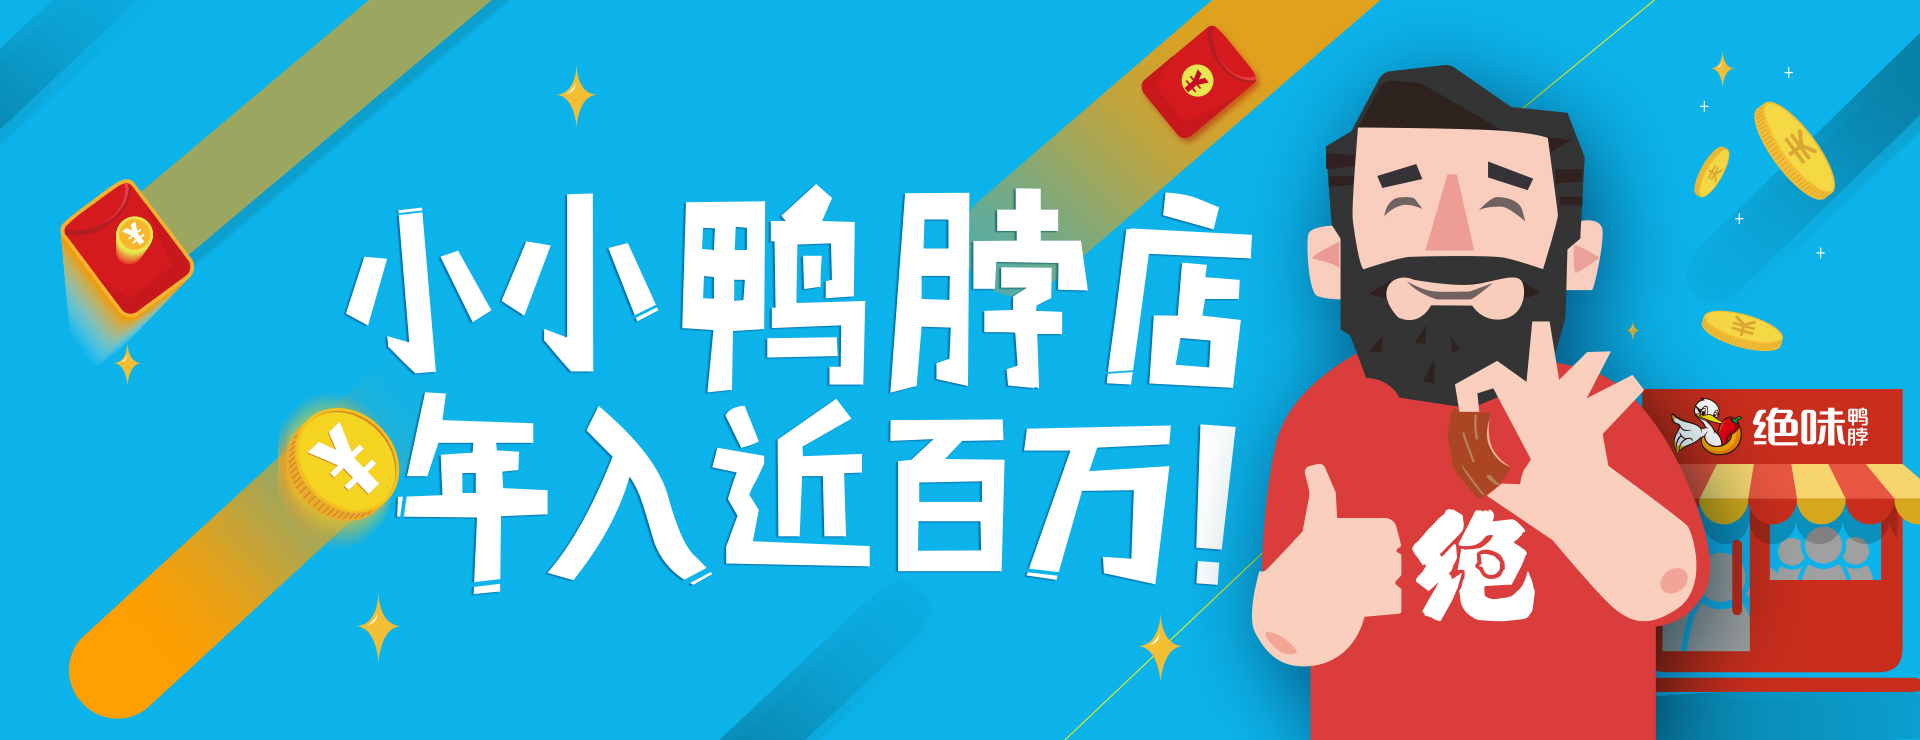
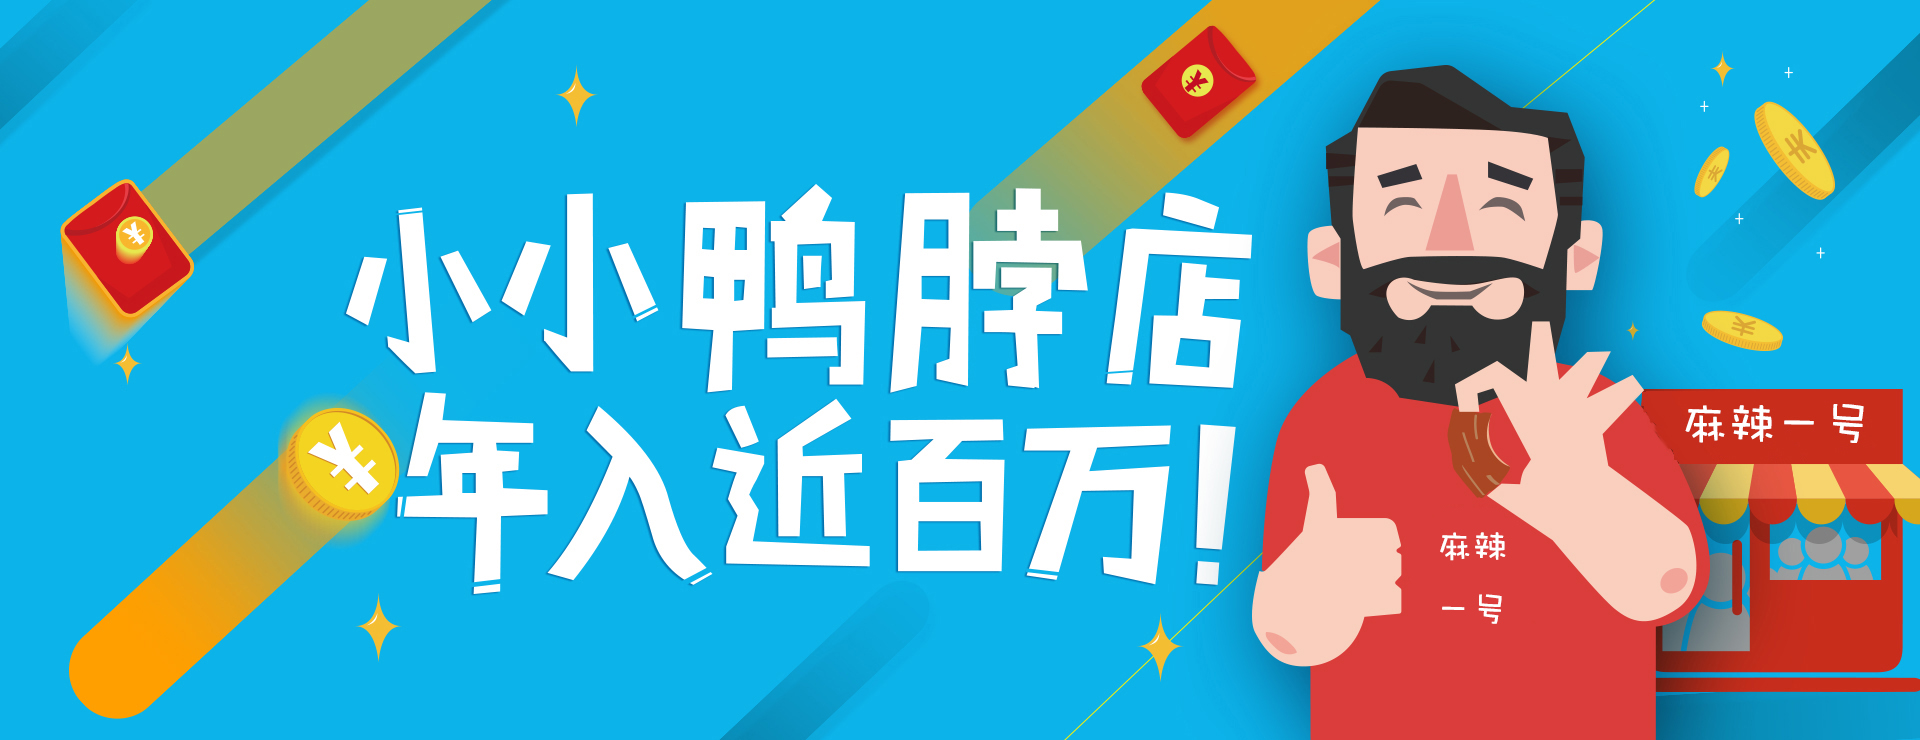
提交修改
提交修改

Changed region(s): [[0.8438, 0.5284, 1.0, 0.6527], [0.7188, 0.6838, 0.8125, 0.8392]]

diff --git a/index.html b/index.html
@@ -30,9 +30,9 @@
 	<div class="m_menu">
 		<ul>
 			<li><a href="index.html">首页</a></li>
-			<li><a href="headline.html">麻辣味头条</a></li>
+			<li><a href="headline.html">麻辣1号头条</a></li>
 			<li><a href="la.html">鲜香麻辣</a></li>
-			<li><a href="ch.html">麻辣粉之家</a></li>
+			<li><a href="ch.html">麻辣1号之家</a></li>
 			<li><a href="join.html">招兵买马</a></li>
 			<li><a href="baicheng.html">百城代言</a></li>
 			<li><a href="service.html">服务平台</a></li>
@@ -51,11 +51,11 @@
 	<div class="navigation">
 		<ul>
 			<li class="active"><a href="index.html">首页</a></li>
-			<li ><a href="headline.html">麻辣味头条</a></li>
+			<li ><a href="headline.html">麻辣1号头条</a></li>
 			<li><a href="la.html">鲜香麻辣</a></li>
 			<li><a href="jm.html">如何加盟</a></li>
 			<li class="li_img"><a href="index.html"><img src="img/1.png" /></a></li>
-			<li><a href="ch.html">麻辣粉之家</a></li>
+			<li><a href="ch.html">麻辣1号之家</a></li>
 			<li><a href="join.html">招兵买马</a></li>
 			<li><a href="baicheng.html">百城代言</a></li>
 			<li><a href="search.html">服务平台</a></li>

diff --git a/join.html b/join.html
@@ -172,7 +172,7 @@
 		</div>
 
 
-		<div class="jianli">简历请直接发送到: HR@juewei.com</div>
+		<div class="jianli">简历请直接发送到: 1240600938@qq.com</div>
 	</div>
 </div>
 <div class="footer">
